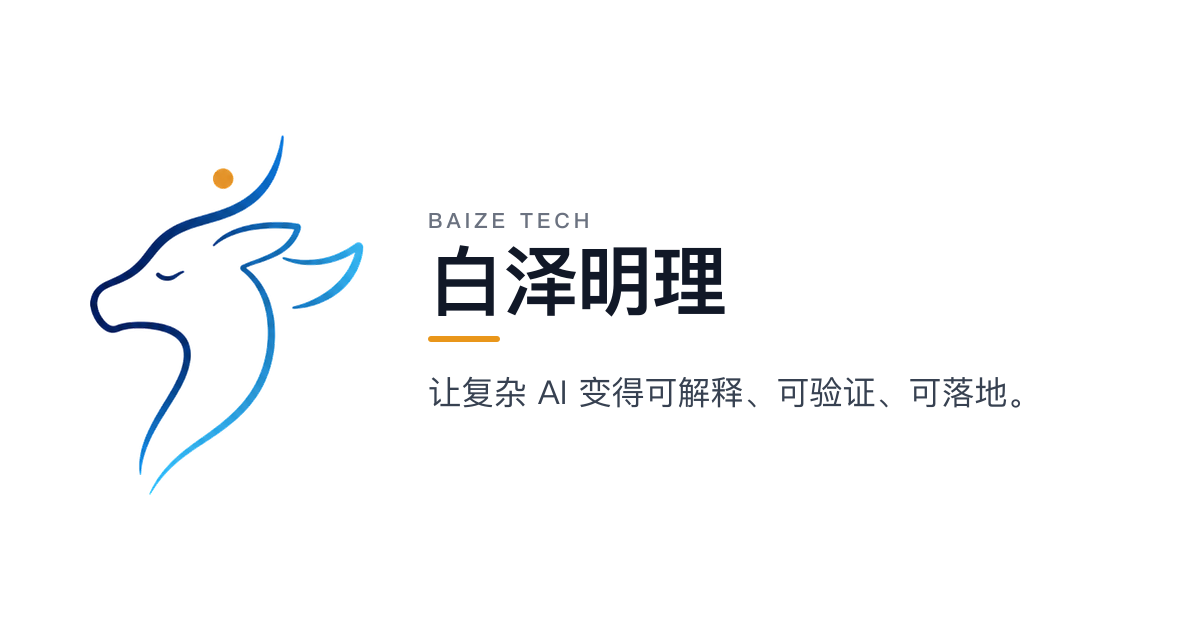
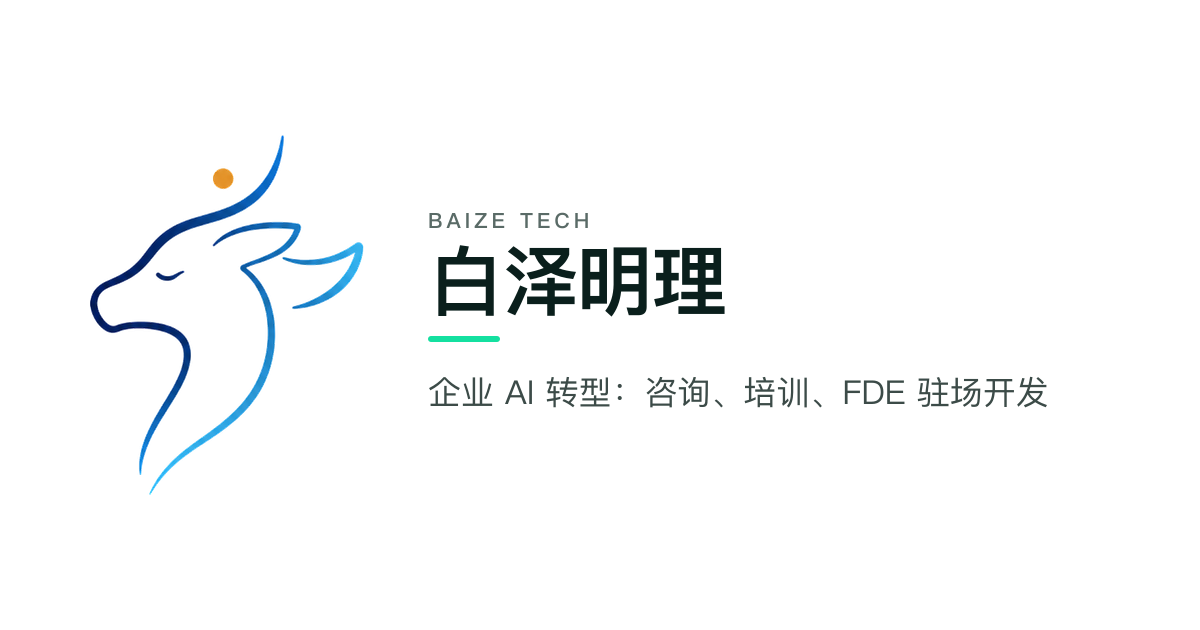
feat(seo): per-language entity data, default OG images, sitemap lastmod
- Organization gets a stable @id, a square logo, contactPoint, and
  English name/description on /en/ pages; publisher and provider
  reference it instead of hard-coding the Chinese name.
- Add WebSite (home), ContactPage, AboutPage; Service gains @id, url,
  serviceType, areaServed.
- Default OG image regenerated in 白泽青 v3; new og-default-en.png is
  used on English pages. Default image declares width/height.
- Sitemap: lastmod for notes and note indexes, x-default hreflang.
- Title suffix dropped on /en/ and when it would exceed ~60 columns.
  New home/services titles and descriptions.
- Note CTA, llms.txt, notes index copy moved to the four-service
  wording; CTA links to the matching services anchor.
- og:locale:alternate, RSS autodiscovery, zh RSS <language>, cover
  fetchpriority=high, gtag after charset, English llms.txt links notes
  and the Chinese index.
- en/gbrain-markdown-truth-source: add missing updatedDate.

Claude-Session: https://claude.ai/code/session_01UdFuvaZRenrKaceaKfMakE

Changed region(s): [[0.3392, 0.6032, 0.8942, 0.6635], [0.37, 0.3317, 0.4933, 0.3619], [0.3392, 0.5127, 0.4317, 0.5429]]

diff --git a/site/src/lib/organization.ts b/site/src/lib/organization.ts
@@ -2,33 +2,70 @@ const site = import.meta.env.SITE as string;
 
 /** 对外主名。副名只进 alternateName，不当标题。 */
 export const ORGANIZATION_NAME = '白泽明理';
+export const ORGANIZATION_NAME_EN = 'Baize Tech';
+
+/**
+ * 全站唯一的 Organization 节点 id。其他 JSON-LD(publisher、provider)用 orgRef 引用它,
+ * 不再各自写一份名字:以前英文页的 publisher 写死中文名,同一实体在两种语言里对不上。
+ */
+export const ORG_ID = new URL('/#organization', site).href;
+
+export const orgRef = (lang: 'zh-CN' | 'en' = 'zh-CN') => ({
+  '@type': 'Organization',
+  '@id': ORG_ID,
+  name: lang === 'en' ? ORGANIZATION_NAME_EN : ORGANIZATION_NAME,
+  url: new URL('/', site).href,
+});
+
+const COPY = {
+  'zh-CN': {
+    name: ORGANIZATION_NAME,
+    alternateName: ['Baize Tech', 'Formal eXplainable AI', '白泽明理 Baize Tech'],
+    description:
+      '白泽明理（Baize Tech）帮企业做 AI 转型，提供 AI 转型咨询、企业 AI 培训、FDE 驻场开发、工具开发与产品支持四项服务。',
+    knowsAbout: ['AI 转型咨询', '企业 AI 培训', 'FDE 驻场开发', 'AI Agent 集成', 'LLM API 网关', 'Loop Engineering'],
+  },
+  en: {
+    name: ORGANIZATION_NAME_EN,
+    alternateName: [ORGANIZATION_NAME, 'Formal eXplainable AI', '白泽明理 Baize Tech'],
+    description:
+      'Baize Tech is an AI transformation consultancy. It offers AI transformation consulting, team AI training, forward deployed engineering, and internal tools. Delivery is remote-first.',
+    knowsAbout: [
+      'AI transformation consulting',
+      'AI training for teams',
+      'Forward deployed engineering',
+      'AI agent integration',
+      'LLM API gateways',
+      'Loop Engineering',
+    ],
+  },
+} as const;
 
 /**
  * 全站 Organization JSON-LD 的单一事实源。
  * sameAs 只放已经公开、且四元组一致的实体页。LinkedIn / Crunchbase 上线后再追加。
  */
-export function organizationJsonLd(overrides: Record<string, unknown> = {}) {
+export function organizationJsonLd(lang: 'zh-CN' | 'en' = 'zh-CN') {
+  const t = COPY[lang];
   return {
     '@context': 'https://schema.org',
     '@type': 'Organization',
-    name: ORGANIZATION_NAME,
-    alternateName: ['Formal eXplainable AI', 'Baize Tech', '白泽明理 Baize Tech'],
+    '@id': ORG_ID,
+    name: t.name,
+    alternateName: t.alternateName,
     slogan: 'Formal eXplainable AI',
-    url: site,
-    logo: new URL('/og-default.png', site).href,
+    url: new URL('/', site).href,
+    // Google 要求 logo 是方图且不小于 112px;og-default 是 1200×630 的横幅,不合格。
+    logo: new URL('/apple-touch-icon.png', site).href,
     email: 'contacts@fxai.ai',
-    description:
-      '白泽明理（Formal eXplainable AI）是面向企业的 AI 提效与经营流程重塑顾问，帮助企业把 AI 从个人尝鲜做成可验证、可复用的组织能力。',
-    knowsAbout: [
-      '企业 AI 落地',
-      'AI 提效',
-      '经营流程重塑',
-      '可解释 AI',
-      'LLM API 网关设计',
-      'AI 研发流程设计',
-      'Loop Engineering',
-      '端到端交付',
-    ],
+    contactPoint: {
+      '@type': 'ContactPoint',
+      contactType: 'sales',
+      email: 'contacts@fxai.ai',
+      availableLanguage: ['zh-CN', 'en'],
+    },
+    description: t.description,
+    knowsAbout: t.knowsAbout,
     areaServed: [
       { '@type': 'City', name: 'Hangzhou' },
       { '@type': 'Country', name: 'CN' },
@@ -46,6 +83,5 @@ export function organizationJsonLd(overrides: Record<string, unknown> = {}) {
       'https://huggingface.co/datasets/zouyanjian/enterprise-ai-sop',
       'https://about.me/yanjianzou',
     ],
-    ...overrides,
   };
 }

diff --git a/site/src/pages/llms.txt.ts b/site/src/pages/llms.txt.ts
@@ -17,22 +17,23 @@ import { notePath, noteSlug, pairNotes } from '../lib/i18n';
 // 抓取方少吃一次重定向。
 
 const SUMMARY =
-  '企业 AI 提效与经营流程重塑顾问：帮助企业把 AI 嵌入经营、研发与交付流程，形成可验证、可复用、可持续扩展的组织效率。';
+  '白泽明理（Baize Tech）帮企业做 AI 转型：找出最该先改的流程，按岗位培训团队，再派工程师把 Agent 接进 CRM、ERP、HR 系统。';
 
-const INTRO = `白泽明理提供五项工程服务，按三层阶梯组织：
+const INTRO = `白泽明理提供四项服务：
 
-01 · 接入 Access——先把 AI 稳定、可控、可审计地接进来：Codex 中转站搭建、LLM API 网关设计。
-02 · 工程 Engineering——再把 AI 变成可迭代、可验证的工程能力：AI 研发流设计、Loop Engineering 设计。
-03 · 交付 Delivery——最终把能力设计成真实产品与增长路径：想法到产品端到端交付设计。
+01 · AI 转型咨询：访谈各部门，排出改造优先级和验收口径。
+02 · 企业 AI 培训：按岗位授课，课后每个团队留下可复用的 Skill。
+03 · FDE 驻场开发：工程师进你的团队，把 Agent 接进 CRM、ERP、HR；包括 AI 研发流设计、Loop Engineering 设计、想法到产品端到端交付。
+04 · 工具开发与产品支持：Codex 中转站搭建、LLM API 网关设计、内部工具开发，上线后持续维护。
 
 联系邮箱：contacts@fxai.ai`;
 
 const PAGES: Array<[string, string, string]> = [
-  ['/', '首页', '白泽明理是谁、三层服务阶梯速览、如何开始一次诊断'],
-  ['/services/', '服务', '五项服务的完整阶梯，交付物、受众映射与合作边界'],
+  ['/', '首页', '白泽明理是谁、四项服务速览、如何预约 30 分钟免费诊断'],
+  ['/services/', '服务', '四项服务的内容、交付物和合作流程'],
   ['/method/', '方法论', '诊断、接入、工程、交付、沉淀，五步落地路径'],
   ['/about/', '关于白泽', '白泽明理名字的由来与 Formal eXplainable AI 工作标准'],
-  ['/notes/', '明理笔记', '关于 AI 接入、工程与落地的笔记'],
+  ['/notes/', '明理笔记', '关于企业 AI 转型的笔记，按分类筛选'],
   ['/contact/', '联系我们', '预约一次 AI 落地诊断'],
 ];
 

diff --git a/site/src/i18n/services.ts b/site/src/i18n/services.ts
@@ -7,8 +7,6 @@ type Service = { id: 'consulting' | 'training' | 'fde' | 'tools'; n: string; t: 
 export type ServicesCopy = {
   title: string;
   description: string;
-  /** Service JSON-LD 的 provider 名。 */
-  provider: string;
   badge: string;
   h1: Rich;
   sub: string;
@@ -23,7 +21,6 @@ export const zh: ServicesCopy = {
   title: '服务｜AI 转型咨询、企业 AI 培训、FDE 驻场开发与工具开发',
   description:
     '白泽明理四项服务：AI 转型咨询排出改造优先级，企业 AI 培训按岗位授课，FDE 工程师驻场把 Agent 接进业务系统，工具开发覆盖中转站、LLM 网关与内部工具。',
-  provider: '白泽明理',
   badge: '四项服务 · 咨询 · 培训 · FDE · 工具',
   h1: ['从想清楚，', BR, '到 ', { em: '跑起来' }, '。'],
   sub: '先找出最该改的流程，再教团队用 AI 干活，最后派工程师把 Agent 和工具接进你的系统。四项服务可以单独买，也可以按顺序接。',
@@ -91,10 +88,9 @@ export const zh: ServicesCopy = {
 };
 
 export const en: ServicesCopy = {
-  title: 'Services: AI Consulting, Training, and Forward Deployed Engineering',
+  title: 'Services: AI Consulting, Training & Forward Deployed Engineers',
   description:
-    'Four services from Baize Tech: consulting to rank the workflows to change, role-based AI training, remote-first forward deployed engineers who connect agents to your systems, and internal tools including LLM gateways.',
-  provider: 'Baize Tech',
+    'Four services: AI transformation consulting, AI training for teams, forward deployed engineers, and internal tools. Remote-first, for companies of any size.',
   badge: 'Four services · Consulting · Training · FDE · Tools',
   h1: ['From a clear plan', BR, 'to ', { em: 'production' }, '.'],
   sub: 'We find the workflow most worth changing, train your team to work with AI, and assign engineers who connect agents and tools to your systems. Buy one service, or run all four in order. Delivery is remote-first.',

diff --git a/site/src/i18n/home.ts b/site/src/i18n/home.ts
@@ -32,7 +32,7 @@ export type HomeCopy = {
 };
 
 export const zh: HomeCopy = {
-  title: '白泽明理 baize｜企业 AI Native 转型：咨询、培训与 FDE 驻场开发',
+  title: '白泽明理｜企业 AI 转型咨询、培训与 FDE 驻场开发',
   description:
     'baize 帮企业找出最该先改的流程，按岗位培训团队用 AI 干活，再派工程师驻场把 Agent 接进 CRM、ERP、HR 系统。明理笔记公开全部方法。',
   promo: {
@@ -92,9 +92,9 @@ export const zh: HomeCopy = {
 };
 
 export const en: HomeCopy = {
-  title: 'AI Transformation Consulting, Training, and Engineering',
+  title: 'AI Transformation Consulting & Team AI Training | Baize Tech',
   description:
-    'Baize Tech helps companies choose the first workflow to change with AI, trains teams by role, and assigns remote-first engineers to connect agents to CRM, ERP, and HR systems. Our methods are published as notes.',
+    'AI transformation consulting, role-based AI training for teams, and remote forward deployed engineers who connect AI agents to your CRM, ERP, and HR systems.',
   promo: {
     playLabel: 'Play the baize intro video (1 minute)',
     coverAlt: 'Cover of the 1-minute baize intro video',

diff --git a/site/src/pages/en/llms.txt.ts b/site/src/pages/en/llms.txt.ts
@@ -22,12 +22,14 @@ const PAGES: Array<[string, string, string]> = [
   ['/en/services/', 'Services', 'Consulting, training, forward deployed engineering, and tools: scope and deliverables'],
   ['/en/method/', 'Method', 'How an engagement runs, from diagnosis to rollout'],
   ['/en/about/', 'About', 'The team and the Formal eXplainable AI working standard'],
+  ['/en/notes/', 'Notes', 'Notes on putting AI to work in real teams, filterable by topic'],
   ['/en/contact/', 'Contact', 'Book a call by email or the contact form'],
 ];
 
 const EXTRAS: Array<[string, string, string]> = [
   ['/en/rss.xml', 'RSS feed', 'Updates to the English notes'],
   ['/sitemap-index.xml', 'Sitemap', 'Index of every crawlable page'],
+  ['/llms.txt', 'Chinese site', 'Chinese index, with every note in Chinese'],
 ];
 
 export const GET: APIRoute = async ({ site }) => {

diff --git a/site/src/pages/rss.xml.js b/site/src/pages/rss.xml.js
@@ -10,8 +10,9 @@ export async function GET(context) {
 
   return rss({
     title: '明理笔记 · 白泽明理',
-    description: '白泽明理关于 AI 接入、工程与落地的笔记。',
+    description: '白泽明理关于企业 AI 转型的笔记。',
     site: context.site,
+    customData: '<language>zh-cn</language>',
     items: notes.map((n) => ({
       title: n.data.title,
       description: n.data.description,
